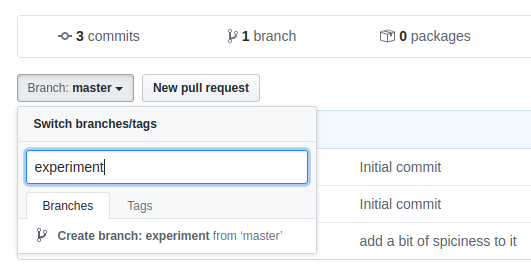
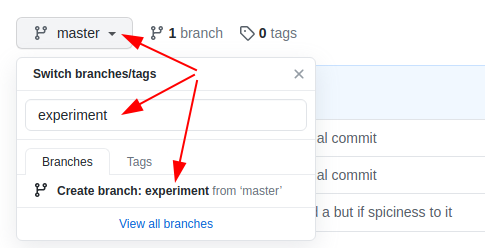
update screenshots in creating-using-web; closes #27

diff --git a/creating-using-web.md b/creating-using-web.md
@@ -75,9 +75,24 @@ And now we have a repository with a README and LICENSE and one commit:
 We can easily add new files from the web interface.
 
 Create a file, e.g. `guacamole.md` (the "md" ending signals that this is in Markdown format):
-<img src="{{ site.baseurl }}/img/creating-using-web/new-file-buttons.png" width="400px" style="border:2px solid #000000;">
+<img src="{{ site.baseurl }}/img/creating-using-web/new-file-buttons.png" width="600px" style="border:2px solid #000000;">
 
-In the new file you can share your favorite cooking recipe (or something else):
+In the new file you can share your favorite cooking recipe (or something else).
+You can also copy-paste this as a starting point:
+```
+Ingredients:
+- 2 avocados
+- 1 lime
+- 2 tsp salt
+
+Instructions:
+- cut and mash avocados
+- chop onion
+- squeeze lime
+- add salt
+- and mix well
+```
+
 <img src="{{ site.baseurl }}/img/creating-using-web/new-file-editor.png" width="400px" style="border:2px solid #000000;">
 
 Then add a commit message and commit (save):
@@ -114,7 +129,6 @@ Once you have done that, browse your commits:
 <img src="{{ site.baseurl }}/img/creating-using-web/commits-browse.png" width="300px" style="border:2px solid #000000;">
 
 In my example I got:
-
 <img src="{{ site.baseurl }}/img/creating-using-web/commits-example.png" width="800px" style="border:2px solid #000000;">
 
 ---
@@ -128,15 +142,16 @@ will learn in the next episode.
 
 - Create a new branch:
   <img src="{{ site.baseurl }}/img/creating-using-web/create-branch.png" width="400px" style="border:2px solid #000000;">
-- Modify your recipe on the newly created branch.
-- Then switch back to the `master` branch and browse your recipe there.
+- Modify your recipe on the newly created branch. Make sure you commit to the new branch:
+  <img src="{{ site.baseurl }}/img/creating-using-web/commit-experiment-branch.png" width="400px" style="border:2px solid #000000;">
+- Then switch back to the `master` branch and browse your recipe there. Compare the file on both branches.
 
 ---
 
 ### Step 5: Repository insights and settings
 
 Github gives us many insights into our repository.  Nothing here is
-really specific to Github (everything can be done with regular git),
+really specific to Github (everything can be done with regular Git),
 but they make it especially easy to see.  The **network** lets you see
 how all commits and branches relate.
 
@@ -168,7 +183,7 @@ to an existing repository.
 
 We made a separate branch, separate from the main branch `master`.
 What happens when we decide we like that change, and want to take it
-into use?  We will soon see the magic of git.
+into use?  We will soon see the magic of Git.
 
 First browse to the overview of all branches:
 <img src="{{ site.baseurl }}/img/creating-using-web/branches-click.png" width="400px" style="border:2px solid #000000;">
